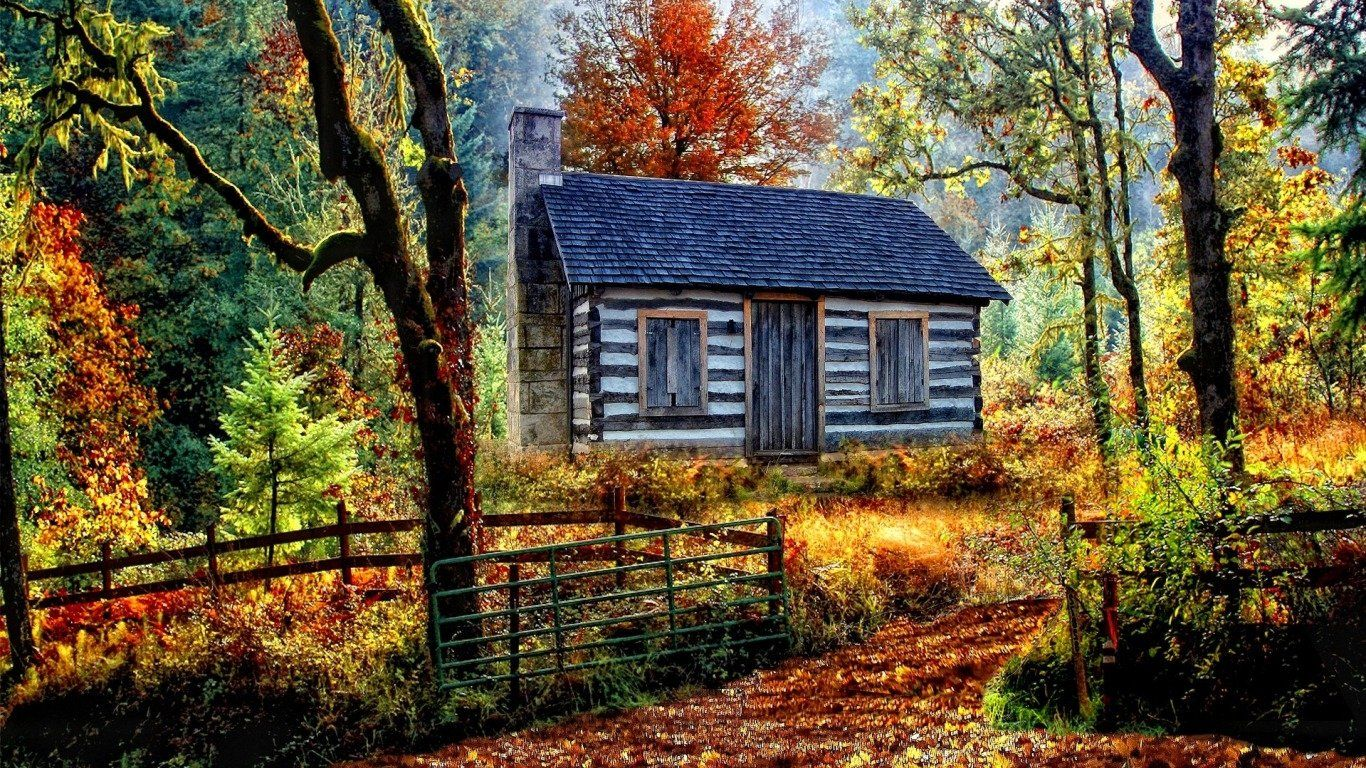
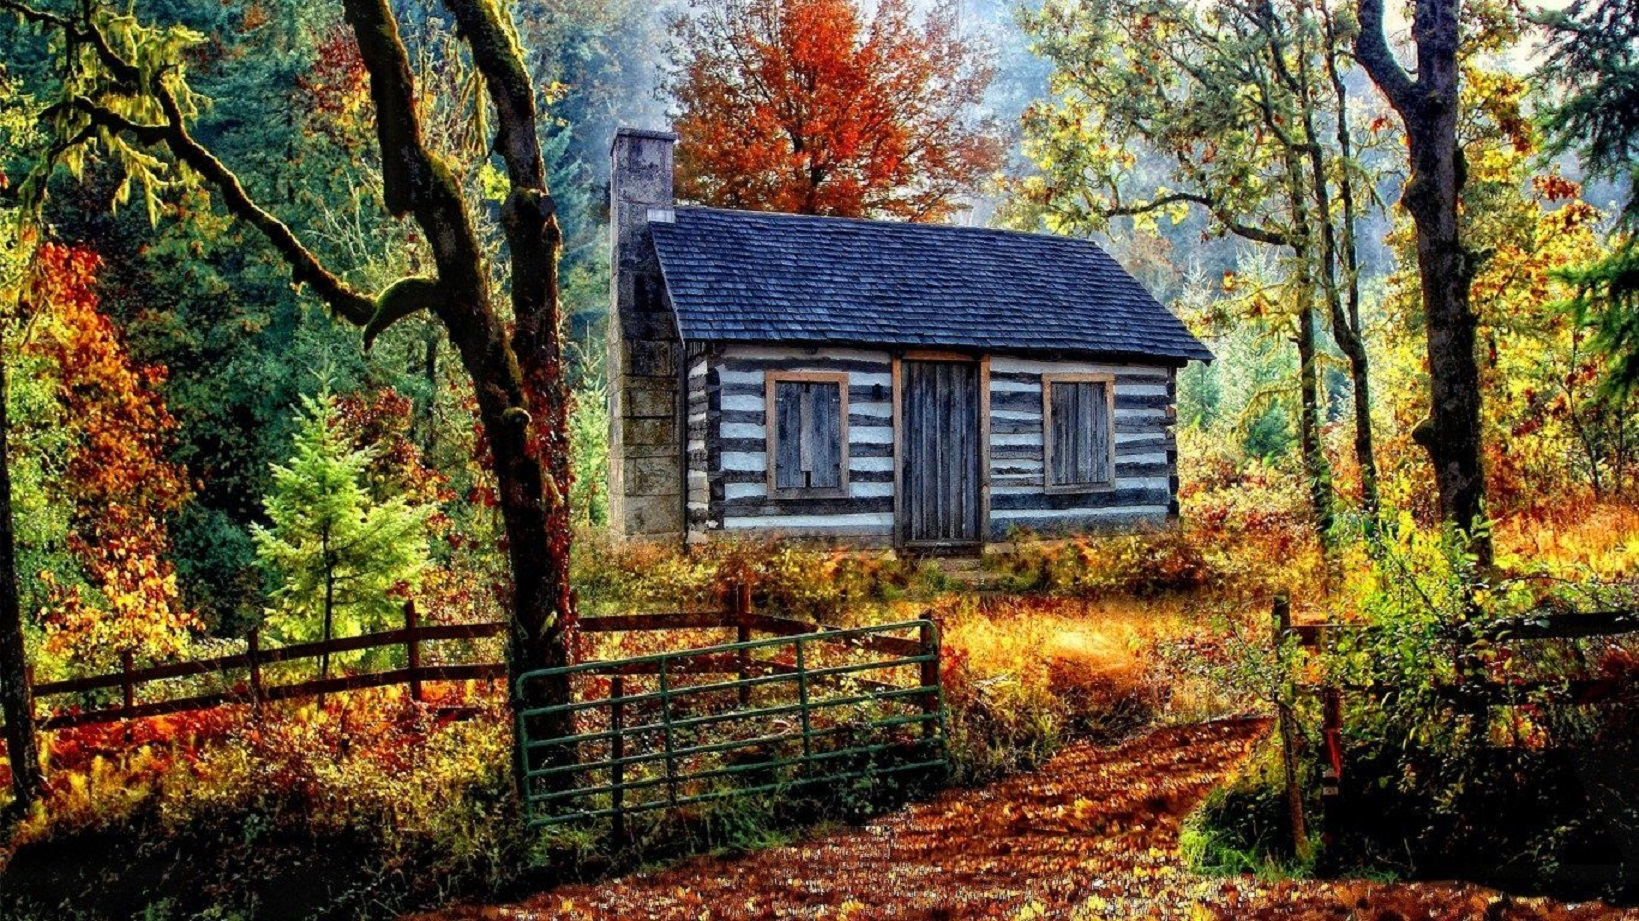
Set temporary online url for background image

diff --git a/css/style.css b/css/style.css
@@ -1,8 +1,6 @@
 body {
-    background-image: url('/assets/bg.jpg');
-
+    background-image:url('https://cdn.wallpapersafari.com/97/44/YxrT3S.jpg')
 }
-
 .title {
     margin-top: -8px;
     margin-left: -8px;
@@ -13,7 +11,7 @@ body {
 }
 
 .page {
-    background-color: rgb(147, 221, 77);
+    background-color:rgb(147, 221, 77);
     margin-left: 350px;
     margin-top: 150px;
     border: 2px solid black;
